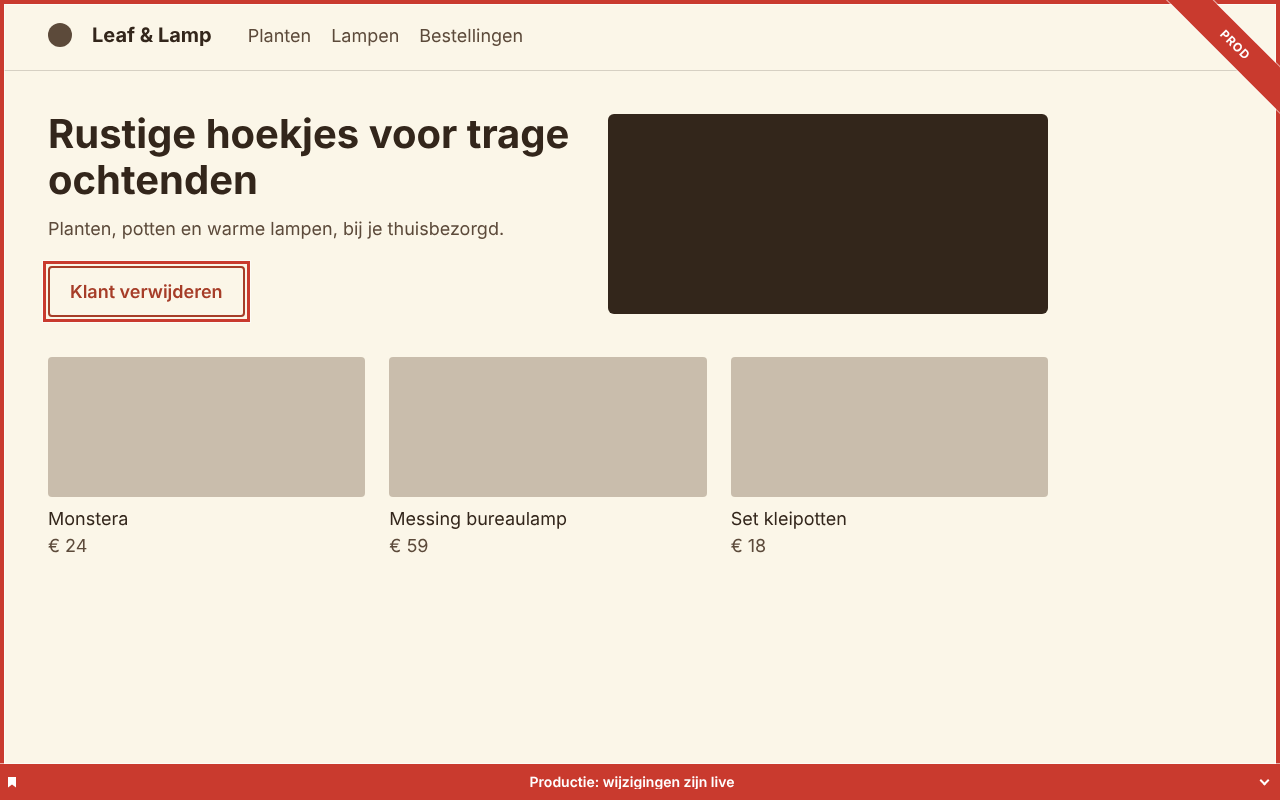
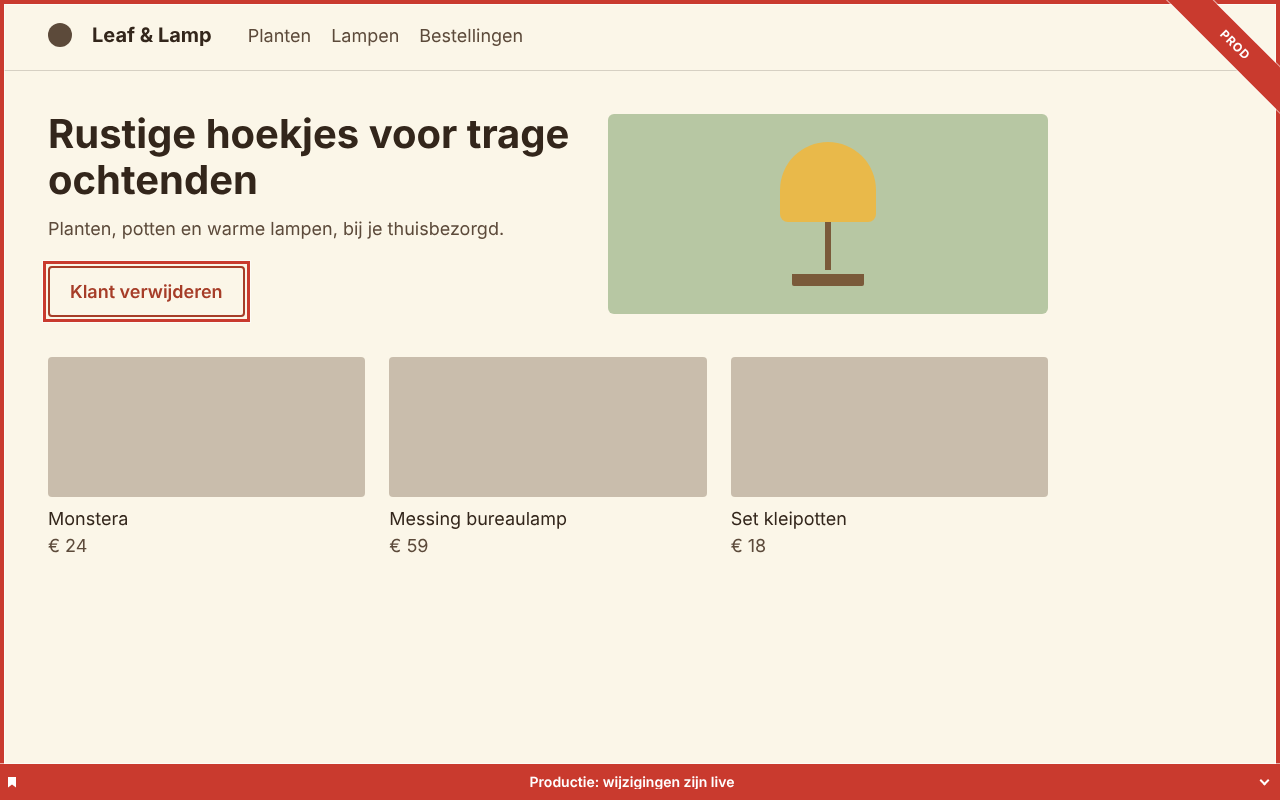
design(bug): soften the demo shop's hero picture, show a marked site in the popup store shot
The hero was a solid dark block that read as a broken image in every screenshot; it is now a sage picture
of a lamp. Store image 4 shows the popup over the marked production page instead of the empty state.
The store and website screenshots are regenerated.

Claude-Session: https://claude.ai/code/session_01HB65pUytYwb1tvJAwAkSiW

Changed region(s): [[0.4688, 0.125, 0.8438, 0.4062]]

diff --git a/website/scripts/screenshot-page.ts b/website/scripts/screenshot-page.ts
@@ -44,8 +44,8 @@ const TEXT: Record<Locale, Text> = {
 
 const PALETTE: Record<ScreenshotTheme, string> = {
   light:
-    '--bg:#fbf6e8;--text:#33261b;--muted:#5c4a3a;--line:rgb(51 38 27/18%);--block:#33261b;--thumb:#a89883;--danger:#a63d28',
-  dark: '--bg:#241d33;--text:#f7f0e3;--muted:#cdc3dd;--line:rgb(247 240 227/14%);--block:#f7f0e3;--thumb:#6b6285;--danger:#ff9c8c',
+    '--bg:#fbf6e8;--text:#33261b;--muted:#5c4a3a;--line:rgb(51 38 27/18%);--sage:#b7c7a3;--lamp:#e9b94a;--wood:#7a5a3a;--thumb:#a89883;--danger:#a63d28',
+  dark: '--bg:#241d33;--text:#f7f0e3;--muted:#cdc3dd;--line:rgb(247 240 227/14%);--sage:#4a5a5e;--lamp:#f2c94c;--wood:#a8896a;--thumb:#6b6285;--danger:#ff9c8c',
 };
 
 const STYLE = `body{margin:0;font:18px/1.5 system-ui,sans-serif;background:var(--bg);color:var(--text)}
@@ -54,7 +54,9 @@ header i{width:24px;height:24px;border-radius:50%;background:var(--muted)}header
 header span{color:var(--muted)}main{display:grid;gap:40px;padding:40px 48px;max-width:1000px}
 .hero{display:grid;grid-template-columns:1.2fr 1fr;gap:32px;align-items:center}
 h1{margin:0 0 12px;font-size:40px;line-height:1.15}p{margin:0 0 24px;color:var(--muted)}
-.picture{height:200px;border-radius:6px;background:var(--block)}
+.picture{height:200px;border-radius:6px;background:var(--sage);position:relative;overflow:hidden}
+.picture::before{content:'';position:absolute;left:50%;top:28px;width:96px;height:80px;margin-left:-48px;border-radius:48px 48px 8px 8px;background:var(--lamp)}
+.picture::after{content:'';position:absolute;left:50%;top:108px;width:72px;height:64px;margin-left:-36px;background:linear-gradient(var(--wood),var(--wood)) center top/6px 48px no-repeat,linear-gradient(var(--wood),var(--wood)) center bottom/72px 12px no-repeat;border-radius:2px}
 button{font:inherit;font-weight:600;padding:10px 20px;border-radius:4px;border:2px solid var(--danger);
 background:transparent;color:var(--danger)}
 .products{display:grid;grid-template-columns:repeat(3,1fr);gap:24px}

diff --git a/website/scripts/store-shots.ts b/website/scripts/store-shots.ts
@@ -11,6 +11,7 @@ import { screenshotFile } from '../src/content/screenshots';
 import { type Locale, websiteLocales } from '../src/i18n/locales';
 import {
   type Env,
+  ORIGIN,
   openPage,
   popupOverPage,
   popupPanel,
@@ -148,11 +149,11 @@ for (const locale of websiteLocales()) {
         out('2-production-vs-test.png'),
       );
       await framed(board, captions.picker, single(await pickerShot(env)), out('3-picker.png'));
-      const panel = await popupPanel(env, `${TEST_ORIGIN}/?theme=light`);
+      const panel = await popupPanel(env, `${ORIGIN}/?theme=light`);
       await framed(
         board,
         captions.popup,
-        single(await popupOverPage(env, unmarked, panel)),
+        single(await popupOverPage(env, production, panel)),
         out('4-popup.png'),
       );
       await framed(
